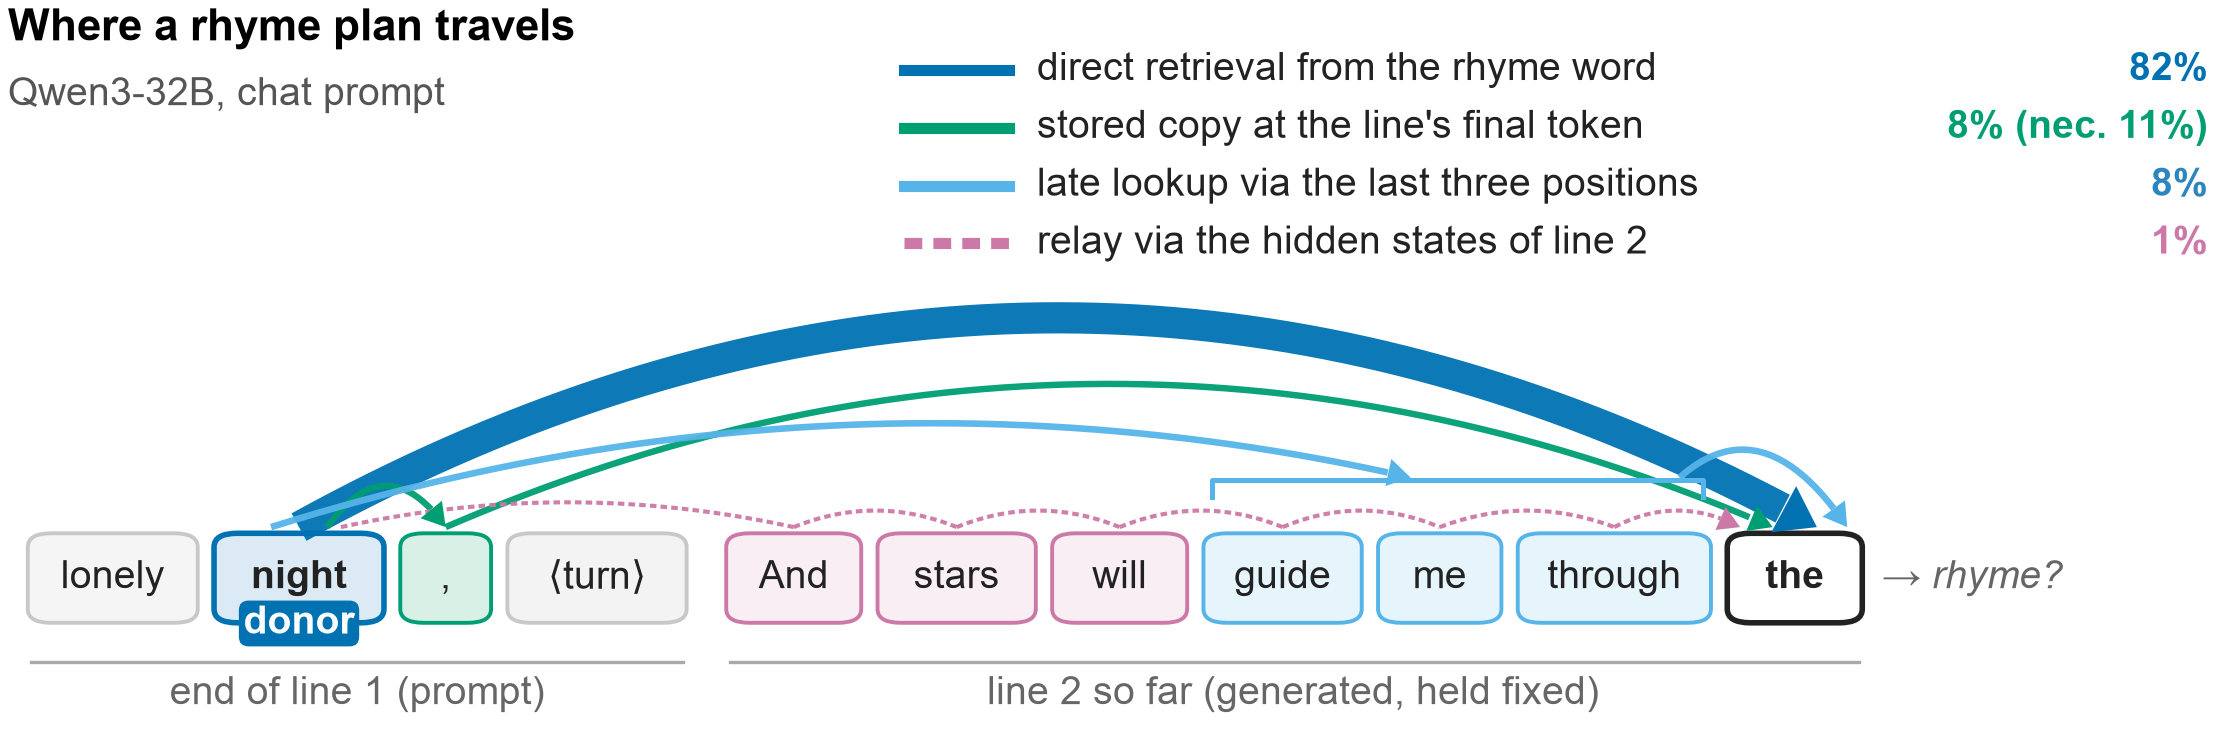
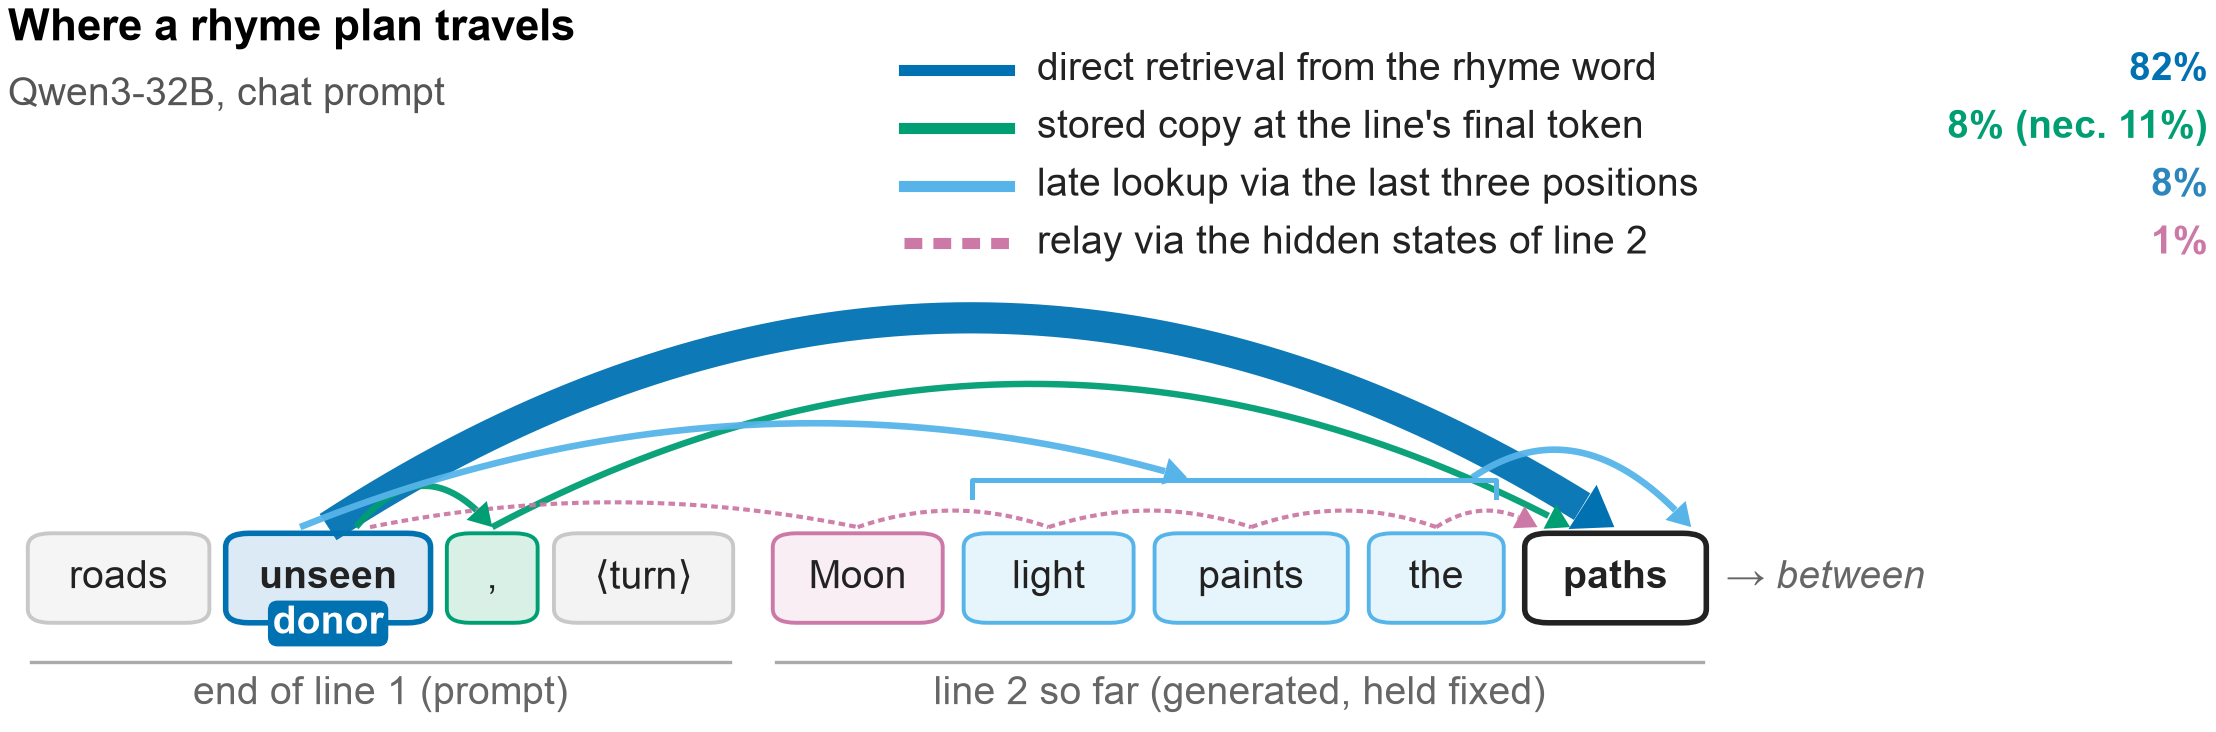
Figure 1: an actual Qwen3-32B couplet with a real rhyme
The schematic used an invented couplet ('lonely night ... through the') whose
natural ending repeats 'night'. It now shows item 123 of the Qwen3-32B chat run,
'Winds whisper tales of roads unseen, / Moonlight paints the paths between.', at
Qwen3's token boundaries; the caption says so and gives the edited line.

diff --git a/manuscript/figures/make_iclr_figures.py b/manuscript/figures/make_iclr_figures.py
@@ -203,14 +203,16 @@ def fig1_schematic(axA):
     axA.set_xlim(-0.1, 9.35)
     axA.set_ylim(-0.75, 4.45)
     axA.axis("off")
-    toks = [(0.0, 0.7, "lonely", "ctx"), (0.8, 0.7, "night", "src"), (1.6, 0.36, ",", "bd"),
-            (2.06, 0.74, "⟨turn⟩", "tpl"), (3.0, 0.55, "And", "gen"), (3.65, 0.65, "stars", "gen"),
-            (4.4, 0.55, "will", "gen"), (5.05, 0.65, "guide", "late"), (5.8, 0.5, "me", "late"),
-            (6.4, 0.8, "through", "late"), (7.3, 0.55, "the", "tgt")]
+    # An actual Qwen3-32B couplet (chat prompt, item 123), at Qwen3's token boundaries:
+    # "Winds whisper tales of roads unseen," / "Moonlight paints the paths between."
+    toks = [(0.0, 0.75, "roads", "ctx"), (0.85, 0.85, "unseen", "src"), (1.8, 0.36, ",", "bd"),
+            (2.26, 0.74, "⟨turn⟩", "tpl"), (3.2, 0.7, "Moon", "gen"), (4.02, 0.7, "light", "late"),
+            (4.84, 0.8, "paints", "late"), (5.76, 0.55, "the", "late"), (6.43, 0.75, "paths", "tgt")]
     fc = {"ctx": "#F5F5F5", "src": "#DCEAF5", "bd": "#D9F0E7", "tpl": "#F3F3F3", "gen": "#F8EEF4",
           "late": "#E6F4FB", "tgt": "#FFFFFF"}
     ec = {"ctx": "#C8C8C8", "src": COL["retrieval"], "bd": COL["storage"], "tpl": "#C8C8C8", "gen": COL["relay"],
           "late": COL["late"], "tgt": COL["ink"]}
+    SRC, TGT = "unseen", "paths"
     cx, box = {}, {}
     for x, w, t, k in toks:
         axA.add_patch(FancyBboxPatch((x, 0.0), w, 0.62, boxstyle="round,pad=0.015,rounding_size=0.1", fc=fc[k],
@@ -219,35 +221,35 @@ def fig1_schematic(axA):
                  weight="bold" if k in ("src", "tgt") else "normal")
         cx[t], box[t] = x + w / 2, (x, w)
     # Donor badge on the rhyme word.
-    axA.text(cx["night"], -0.02, "donor", ha="center", va="center", fontsize=7, color="white", weight="bold",
+    axA.text(cx[SRC], -0.02, "donor", ha="center", va="center", fontsize=7, color="white", weight="bold",
              bbox=dict(boxstyle="round,pad=0.12,rounding_size=0.25", fc=COL["retrieval"], ec="none"))
-    axA.text(7.95, 0.31, "→ rhyme?", ha="left", va="center", fontsize=7, color="#666666", style="italic")
-    axA.plot([0.0, 2.8], [-0.3, -0.3], color="#AAAAAA", lw=0.6)
-    axA.plot([3.0, 7.85], [-0.3, -0.3], color="#AAAAAA", lw=0.6)
-    axA.text(1.4, -0.4, "end of line 1 (prompt)", ha="center", va="top", fontsize=7, color="#666666")
-    axA.text(5.42, -0.4, "line 2 so far (generated, held fixed)", ha="center", va="top", fontsize=7,
+    axA.text(7.28, 0.31, "→ between", ha="left", va="center", fontsize=7, color="#666666", style="italic")
+    axA.plot([0.0, 3.0], [-0.3, -0.3], color="#AAAAAA", lw=0.6)
+    axA.plot([3.2, 7.18], [-0.3, -0.3], color="#AAAAAA", lw=0.6)
+    axA.text(1.5, -0.4, "end of line 1 (prompt)", ha="center", va="top", fontsize=7, color="#666666")
+    axA.text(5.19, -0.4, "line 2 so far (generated, held fixed)", ha="center", va="top", fontsize=7,
              color="#666666")
     y0 = 0.68
     # Source retrieval and the stored copy at the line's final token.
     # The four paths arrive at separate points across the top of the target box.
-    tx0, tw = box["the"]
+    tx0, tw = box[TGT]
     arrive = {"relay": tx0 + 0.04, "storage": tx0 + 0.18, "retrieval": tx0 + 0.37, "late": tx0 + tw - 0.05}
-    bez(axA, cx["night"], y0, arrive["retrieval"], y0, 2.2, s["retrieval"], COL["retrieval"])
-    bez(axA, cx["night"] + 0.12, y0, cx[","], y0, 0.98, s["boundary"], COL["storage"])
+    bez(axA, cx[SRC], y0, arrive["retrieval"], y0, 2.2, s["retrieval"], COL["retrieval"])
+    bez(axA, cx[SRC] + 0.12, y0, cx[","], y0, 0.98, s["boundary"], COL["storage"])
     bez(axA, cx[","], y0, arrive["storage"], y0, 1.72, s["boundary"], COL["storage"])
     # Late lookup: into a bracket over the last three line-2 positions, then a short arc to the target.
-    bx0, bx1 = box["guide"][0] + 0.02, box["through"][0] + box["through"][1] - 0.02
+    bx0, bx1 = box["light"][0] + 0.02, box["the"][0] + box["the"][1] - 0.02
     by = 1.02
     axA.plot([bx0, bx0, bx1, bx1], [by - 0.12, by, by, by - 0.12], color=COL["late"], lw=0.9)
     bm = (bx0 + bx1) / 2
-    bez(axA, cx["night"] - 0.12, y0, bm - 0.2, by + 0.02, 1.42, s["late"], COL["late"])
+    bez(axA, cx[SRC] - 0.12, y0, bm - 0.2, by + 0.02, 1.42, s["late"], COL["late"])
     bez(axA, bx1 - 0.1, by + 0.02, arrive["late"], y0, 1.22, s["late"], COL["late"], arrow=True)
     # Relay: a chain of small arcs from the rhyme word through line 2 to the target.
-    chain = ["night", "And", "stars", "will", "guide", "me", "through", "the"]
+    chain = [SRC, "Moon", "light", "paints", "the", TGT]
     for a, b in zip(chain[:-1], chain[1:]):
-        h = 0.86 if a == "night" else 0.8
-        bez(axA, cx[a] + (0.18 if a == "night" else 0.0), y0, arrive["relay"] if b == "the" else cx[b], y0, h,
-            max(s["early"], 0.0), COL["relay"], ls=(0, (1.6, 1.0)), arrow=(b == "the"))
+        h = 0.86 if a == SRC else 0.8
+        bez(axA, cx[a] + (0.18 if a == SRC else 0.0), y0, arrive["relay"] if b == TGT else cx[b], y0, h,
+            max(s["early"], 0.0), COL["relay"], ls=(0, (1.6, 1.0)), arrow=(b == TGT))
     rows = [(COL["retrieval"], "-", "direct retrieval from the rhyme word", f"{100 * s['retrieval']:.0f}%"),
             (COL["storage"], "-", "stored copy at the line's final token",
              f"{100 * s['boundary']:.0f}% (nec. {100 * s['nec_boundary']:.0f}%)"),
